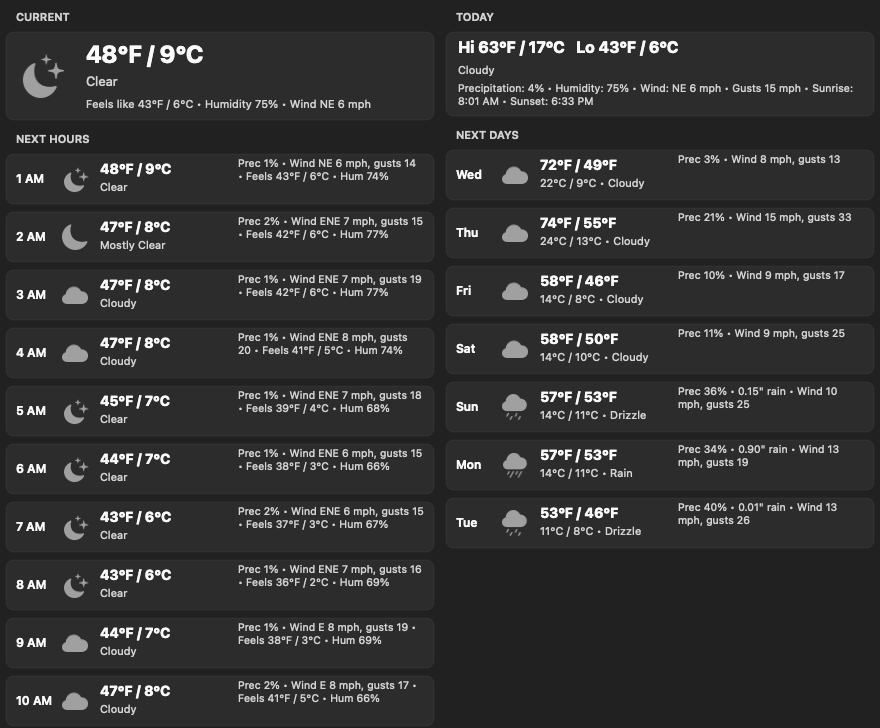
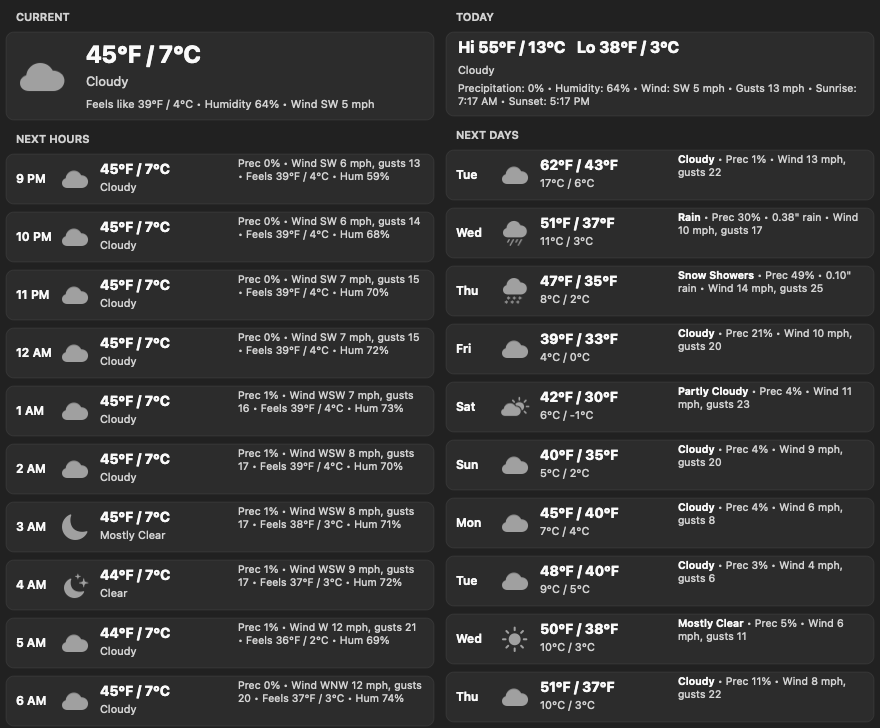
1.6: show each day's conditions in full
The conditions sat in a narrow slot after the °C pair and were cut off ("Mostly Cle…", "Snow Show…"). They now lead the wide right-hand text in bold, where they can wrap, and the slot under the temperatures holds only the °C pair. Screenshot updated.

diff --git a/main.swift b/main.swift
@@ -329,7 +329,10 @@ func makeLabel(_ text: String, size: CGFloat, weight: NSFont.Weight = .regular, 
 }
 
 /// One card: [leading label] [icon] [headline / subline] [detail text, wraps].
-func card(width: CGFloat, height: CGFloat, leading: String, icon: String, headline: String, subline: String, detail: String) -> NSView {
+/// `detailLead`, when given, starts the right-hand text in the primary colour (e.g. the day's conditions),
+/// so it can wrap across the wide right side instead of being cut off under the temperatures.
+func card(width: CGFloat, height: CGFloat, leading: String, icon: String, headline: String, subline: String, detail: String,
+          detailLead: String? = nil) -> NSView {
     let v = CardView(frame: NSRect(x: 0, y: 0, width: width, height: height))
     let midY = height / 2
     v.addSubview(makeLabel(leading, size: 12, weight: .semibold, frame: NSRect(x: 14, y: midY - 8, width: 44, height: 16)))
@@ -338,8 +341,16 @@ func card(width: CGFloat, height: CGFloat, leading: String, icon: String, headli
     v.addSubview(iv)
     v.addSubview(makeLabel(headline, size: 14, weight: .bold, frame: NSRect(x: 98, y: midY + 1, width: 136, height: 18)))
     v.addSubview(makeLabel(subline, size: 11, color: .secondaryLabelColor, frame: NSRect(x: 98, y: midY - 15, width: 136, height: 14)))
-    v.addSubview(makeLabel(detail, size: 10.5, color: .secondaryLabelColor,
-                           frame: NSRect(x: 236, y: 5, width: width - 236 - 14, height: height - 10), lines: 3))
+    let detailLabel = makeLabel(detail, size: 10.5, color: .secondaryLabelColor,
+                                frame: NSRect(x: 236, y: 5, width: width - 236 - 14, height: height - 10), lines: 3)
+    if let lead = detailLead {
+        let t = NSMutableAttributedString(string: lead, attributes: [
+            .font: NSFont.systemFont(ofSize: 10.5, weight: .semibold), .foregroundColor: NSColor.labelColor])
+        t.append(NSAttributedString(string: " • " + detail, attributes: [
+            .font: NSFont.systemFont(ofSize: 10.5), .foregroundColor: NSColor.secondaryLabelColor]))
+        detailLabel.attributedStringValue = t
+    }
+    v.addSubview(detailLabel)
     return v
 }
 
@@ -379,8 +390,8 @@ func hourCard(_ h: Hour, width: CGFloat) -> NSView {
 func dayCard(_ d: Day, width: CGFloat) -> NSView {
     let (sym, desc) = symbol(for: d.code, isDay: true)
     return card(width: width, height: 54, leading: dayFmt.string(from: d.date), icon: sym,
-                headline: "\(primary(d.hiF)) / \(primary(d.loF))", subline: "\(secondary(d.hiF)) / \(secondary(d.loF)) • \(desc)",
-                detail: dayDetail(d))
+                headline: "\(primary(d.hiF)) / \(primary(d.loF))", subline: "\(secondary(d.hiF)) / \(secondary(d.loF))",
+                detail: dayDetail(d), detailLead: desc)
 }
 
 func headerLabel(_ title: String, width: CGFloat) -> NSView {
